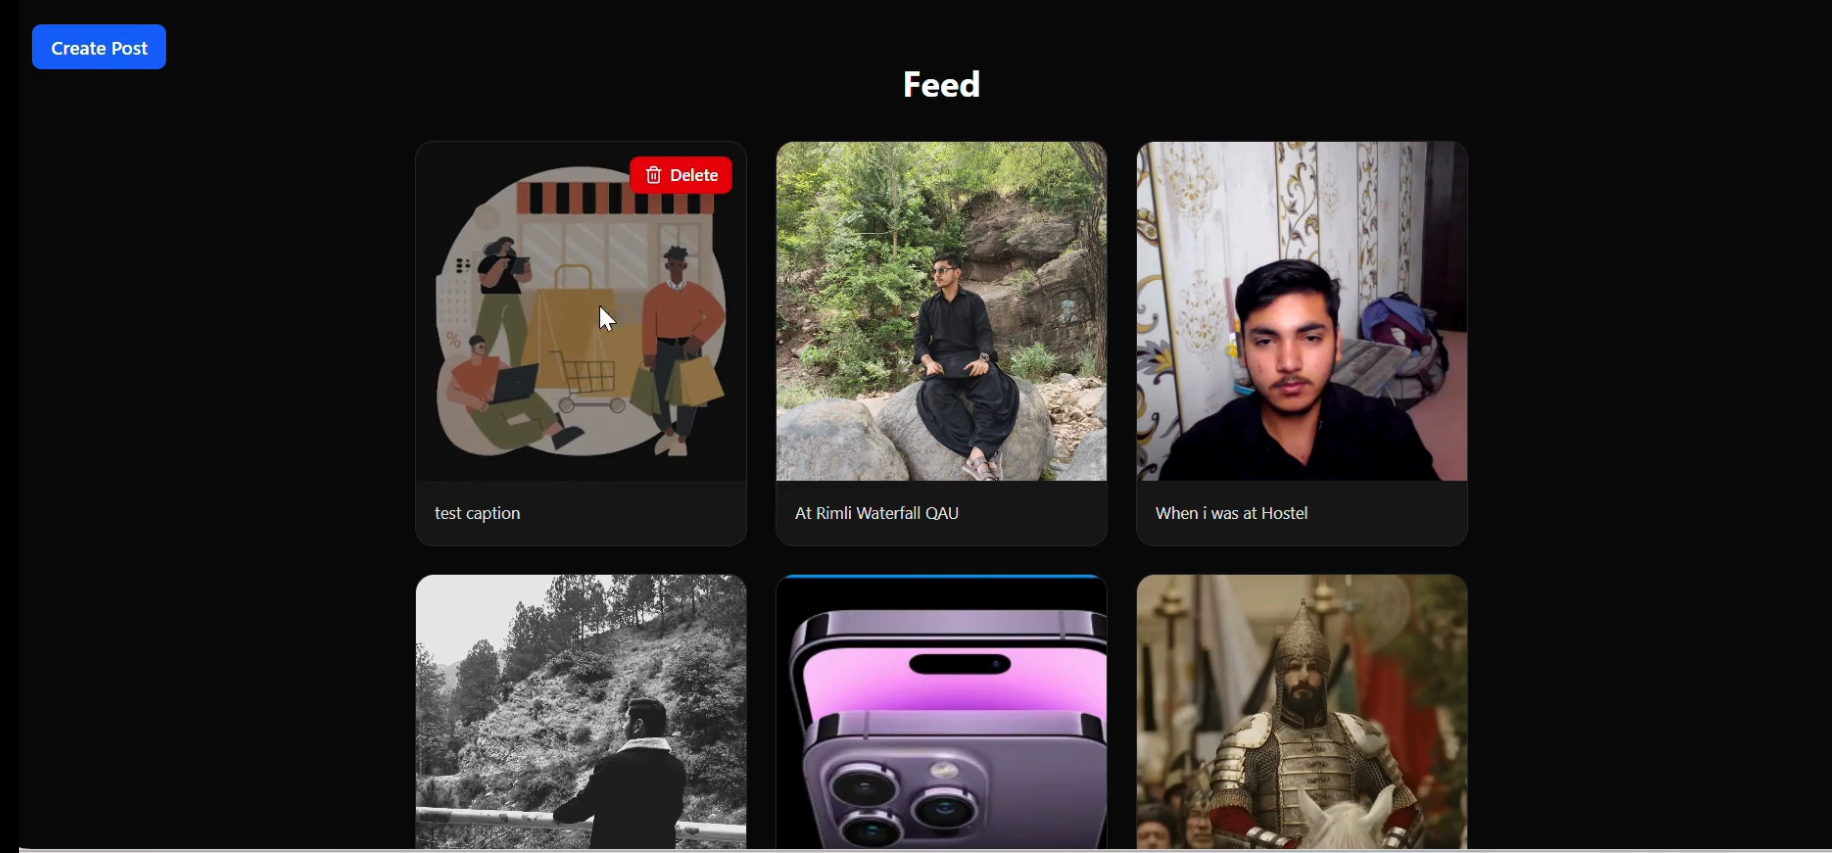
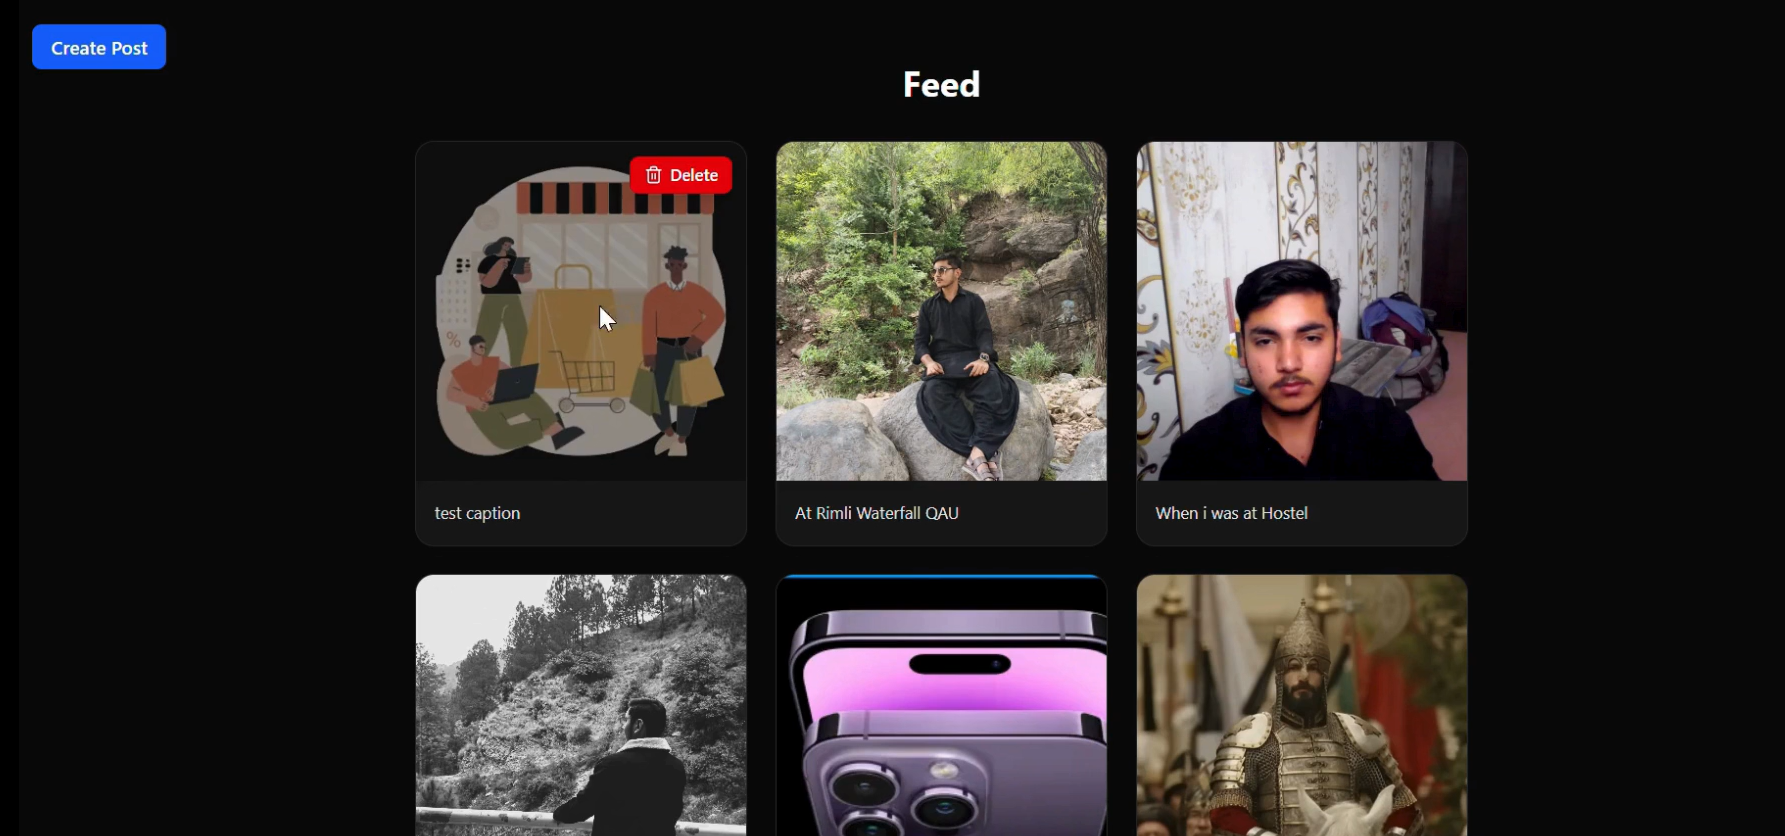
update UI & details

diff --git a/script.js b/script.js
@@ -7,70 +7,76 @@ const CERTS = [
     title: 'HTML Certificate',
     issuer: 'Great Learning',
     desc: 'Completed a comprehensive HTML course covering semantic markup, forms, tables, and modern HTML5 features.',
-    badge: 'HTML'
+    badges: ['HTML', 'HTML5', 'Web Development']
   },
   {
     img: 'Images/CSS certificate by great learning.jpg',
     title: 'CSS Certificate',
     issuer: 'Great Learning',
     desc: 'Mastered CSS styling including flexbox, grid, animations, responsive design, and modern layout techniques.',
-    badge: 'CSS'
+    badges: ['CSS', 'CSS3', 'Flexbox', 'Grid']
   },
   {
     img: 'Images/Responsvie-web-design.png',
     title: 'Responsive Web Design',
     issuer: 'freeCodeCamp',
     desc: 'Earned certification in responsive web design — building mobile-first, accessible, and adaptive web pages.',
-    badge: 'Responsive'
+    badges: ['HTML', 'CSS', 'JavaScript', 'Responsive Design']
   },
   {
     img: 'Images/certificate.png',
-    title: 'CSS Certificate',
+    title: 'Full Stack E-commerce Project',
     issuer: 'Great Learning',
-    desc: 'Advanced CSS certification covering transitions, transforms, and building visually stunning interfaces.',
-    badge: 'CSS'
+    desc: 'Built a complete full-stack e-commerce platform using the MERN stack with authentication and payment integration.',
+    badges: ['MERN Stack', 'React', 'Node.js', 'MongoDB', 'Express']
+  },
+  {
+    img: 'Images/CIT.jpeg',
+    title: 'Certificate in Information Technology',
+    issuer: 'Adnan computer classes Shahdadkot',
+    desc: 'Completed a 6-month CIT course covering computer fundamentals, programming, and IT concepts. basics of computer hardware and software.',
+    badges: ['Basic IT', 'Photoshop', 'MS Office', 'Excel', 'PowerPoint']
   }
 ];
 
 /* Projects */
 const PROJECTS = [
   {
-    img: 'Images/html.jpg',
+    img: 'Images/Projects/ecommerce.png',
     emoji: '🛍',
     title: 'E-Commerce Platform',
     desc: 'Full-stack MERN e-commerce platform with product catalog, cart, checkout, and admin dashboard.',
     tags: ['React', 'Node.js', 'MongoDB', 'Express']
   },
   {
-    img: 'Images/CSS certificate by great learning.jpg',
+    img: 'Images/Projects/Authentication.png',
     emoji: '💬',
     title: 'Real-time Chat App',
     desc: 'Real-time messaging application using Socket.io with instant message delivery and user presence.',
     tags: ['React', 'Socket.io', 'Express', 'MongoDB']
   },
   {
-    img: 'Images/Responsvie-web-design.png',
+    img: 'Images/Projects/gallery.png',
     emoji: '📝',
     title: 'Notes App',
     desc: 'Full-stack notes application with CRUD operations, search, and user authentication.',
     tags: ['React', 'Node.js', 'MongoDB', 'Express']
   },
   {
-    img: 'Images/certificate.png',
-    emoji: '🖼',
+    img: 'Images/Projects/gallery.png',
     title: 'Gallery App',
     desc: 'Image gallery application with upload, categorization, and responsive grid layout.',
     tags: ['React', 'Node.js', 'MongoDB', 'Express']
   },
   {
-    img: 'Images/html.jpg',
-    emoji: '🔐',
+    img: 'Images/Projects/Authentication.png',
+
     title: 'Authentication System',
     desc: 'Secure authentication system with Gmail verification, JWT tokens, and protected routes.',
     tags: ['React', 'Node.js', 'MongoDB', 'JWT']
   },
   {
-    img: 'Images/CSS certificate by great learning.jpg',
+    img: 'Images/Projects/ecommerce.png',
     emoji: '🛒',
     title: 'E-Commerce Frontend',
     desc: 'Modern e-commerce frontend built with React — product listings, filters, and shopping cart UI.',
@@ -132,7 +138,9 @@ CERTS.forEach(c => {
       <div class="cert-body">
         <h3>${c.title}</h3>
         <p>${c.desc}</p>
-        <span class="cert-badge">${c.badge}</span>
+        <div class="cert-badges">
+          ${c.badges.map(b => `<span class="cert-badge">${b}</span>`).join('')}
+        </div>
       </div>
     </div>`;
 });
@@ -147,7 +155,6 @@ PROJECTS.forEach(p => {
         <img src="${p.img}" alt="${p.title}" loading="lazy" />
       </div>
       <div class="proj-body">
-        <span class="proj-emoji">${p.emoji}</span>
         <h3>${p.title}</h3>
         <p>${p.desc}</p>
         <div class="tags">${p.tags.map(t => `<span class="tag">${t}</span>`).join('')}</div>
@@ -314,45 +321,42 @@ function closeMob() {
   document.getElementById('mobMenu').classList.remove('open');
 }
 
-/* ====================== CONTACT FORM ====================== */
-document.getElementById('contactForm').addEventListener('submit', async function(e) {
+/* ====================== CONTACT FORM (mailto - no backend needed) ====================== */
+document.getElementById('contactForm').addEventListener('submit', function(e) {
   e.preventDefault();
   const btn = document.getElementById('submitBtn');
   const msg = document.getElementById('formMsg');
-  const data = {
-    name:    document.getElementById('name').value,
-    email:   document.getElementById('email').value,
-    phone:   document.getElementById('phone').value,
-    subject: document.getElementById('subject').value,
-    message: document.getElementById('message').value,
-  };
 
-  btn.textContent = 'Sending…'; btn.disabled = true;
+  const name    = document.getElementById('name').value;
+  const email   = document.getElementById('email').value;
+  const phone   = document.getElementById('phone').value;
+  const subject = document.getElementById('subject').value;
+  const message = document.getElementById('message').value;
+
+  btn.textContent = 'Opening Email…'; btn.disabled = true;
   msg.style.display = 'none';
 
-  try {
-    const res = await fetch('http://localhost:5000/api/contact', {
-      method: 'POST',
-      headers: { 'Content-Type': 'application/json' },
-      body: JSON.stringify(data)
-    });
-    const json = await res.json();
-    if (res.ok) {
-      msg.className = 'form-msg ok';
-      msg.textContent = '✓ Message sent! I\'ll get back to you soon.';
-      this.reset();
-    } else {
-      throw new Error(json.error || 'Server error');
-    }
-  } catch (err) {
-    msg.className = 'form-msg ok';
-    msg.textContent = '✓ (Preview) Message received! Connect your backend to enable real email delivery.';
-    this.reset();
-  } finally {
-    msg.style.display = 'block';
-    btn.textContent = 'Send Message →'; btn.disabled = false;
-    setTimeout(() => { msg.style.display = 'none'; }, 6000);
-  }
+  // Build the mailto link with all form data
+  const recipient = 'soomromuhammadabbas671@gmail.com';
+  const mailSubject = encodeURIComponent(`${subject} — from ${name}`);
+  const mailBody = encodeURIComponent(
+    `Name: ${name}\n` +
+    `Email: ${email}\n` +
+    `Phone/WhatsApp: ${phone}\n` +
+    `\nMessage:\n${message}`
+  );
+
+  const mailtoLink = `mailto:${recipient}?subject=${mailSubject}&body=${mailBody}`;
+
+  // Open the visitor's email client with the pre-filled message
+  window.location.href = mailtoLink;
+
+  msg.className = 'form-msg ok';
+  msg.textContent = '✓ Your email app has opened! Just press Send in your email app.';
+  msg.style.display = 'block';
+
+  btn.textContent = 'Send Message →'; btn.disabled = false;
+  setTimeout(() => { msg.style.display = 'none'; }, 6000);
 });
 
 /* ====================== ACTIVE NAV HIGHLIGHT ====================== */

diff --git a/index.html b/index.html
@@ -155,6 +155,16 @@
       MERN Stack Developer crafting powerful web applications with
       React, Node.js, MongoDB & Express — plus C++, Python, and Tailwind CSS.
     </p>
+    <div class="hero-badges">
+      <span class="hero-badge">MERN Stack</span>
+      <span class="hero-badge">React.js</span>
+      <span class="hero-badge">Node.js</span>
+      <span class="hero-badge">MongoDB</span>
+      <span class="hero-badge">Express.js</span>
+      <span class="hero-badge">Tailwind CSS</span>
+      <span class="hero-badge">C++</span>
+      <span class="hero-badge">Python</span>
+    </div>
     <div class="hero-btns">
       <a href="#projects" class="btn btn-primary"><span>View My Work</span></a>
       <a href="#contact"  class="btn btn-outline"><span>Get In Touch</span></a>
@@ -175,7 +185,7 @@
     <div class="about-grid">
       <div class="about-text">
         <p>
-          I'm Muhammad Abbas, a passionate MERN stack developer based in Islamabad.
+          I'm Muhammad Abbas, a passionate MERN stack developer.
           I specialize in building full-stack web applications using MongoDB,
           Express, React, and Node.js — turning ideas into elegant, functional
           digital products.
@@ -187,13 +197,15 @@
           deliver clean, modern solutions.
         </p>
         <p>
-          I'm constantly learning and improving — completing certifications in
-          HTML, CSS, and Responsive Web Design to sharpen my frontend skills
-          and deliver pixel-perfect experiences.
+          I'm constantly learning and improving — now i am learning AI Engineering
+          and combine AI in web development.
+        </p>
+        <p>
+          Currently looking for Internship or Part time job.
         </p>
       </div>
       <div class="stats">
-        <div class="stat-card"><h3>6+</h3><p>Projects Built</p></div>
+        <div class="stat-card"><h3>9+</h3><p>Projects Built</p></div>
         <div class="stat-card"><h3>4</h3><p>Certifications</p></div>
         <div class="stat-card"><h3>1</h3><p>Month Internship</p></div>
         <div class="stat-card"><h3>100%</h3><p>Dedication</p></div>
@@ -216,7 +228,7 @@
           <h3>BS Computer Science</h3>
           <p>Quaid-e-Azam University, Islamabad</p>
           <div class="tags">
-            <span class="tag">Semester 5</span>
+            <span class="tag"> Current Semester 5</span>
             <span class="tag">CGPA 2.8</span>
           </div>
         </div>
@@ -248,7 +260,7 @@
         <div class="exp-content">
           <span class="exp-date">6 Months</span>
           <h3>CIT Course</h3>
-          <p>Computer Information Technology</p>
+          <p>Certificate in Information Technology</p>
           <div class="tags">
             <span class="tag">Certificate</span>
           </div>
@@ -350,7 +362,7 @@
           <div class="info-icon">⏰</div>
           <div>
             <h4>Availability</h4>
-            <p>Mon – Fri, 9 AM – 6 PM PKT</p>
+            <p>24/7 available</p>
           </div>
         </div>
         <div class="socials">

diff --git a/style.css b/style.css
@@ -251,6 +251,37 @@ nav {
   animation: fadeUp .9s .35s both;
 }
 
+.hero-badges {
+  display: flex;
+  flex-wrap: wrap;
+  justify-content: center;
+  gap: .6rem;
+  margin: 0 auto 1.8rem;
+  max-width: 640px;
+  animation: fadeUp .9s .45s both;
+}
+
+.hero-badge {
+  display: inline-flex;
+  align-items: center;
+  padding: .35rem 1rem;
+  border-radius: 999px;
+  font-size: .78rem;
+  font-weight: 600;
+  letter-spacing: .4px;
+  background: var(--red-dim);
+  color: var(--red);
+  border: 1px solid rgba(239, 68, 68, .28);
+  transition: all .3s;
+}
+
+.hero-badge:hover {
+  background: var(--red);
+  color: #fff;
+  transform: translateY(-3px);
+  box-shadow: 0 6px 20px var(--red-glow);
+}
+
 .hero-btns {
   display: flex;
   gap: 1rem;
@@ -681,9 +712,15 @@ h2.section-title {
   line-height: 1.6;
 }
 
+.cert-badges {
+  display: flex;
+  flex-wrap: wrap;
+  gap: .4rem;
+  margin-top: .8rem;
+}
+
 .cert-badge {
   display: inline-block;
-  margin-top: .8rem;
   padding: .25rem .8rem;
   border-radius: 999px;
   font-size: .72rem;
@@ -693,6 +730,14 @@ h2.section-title {
   background: var(--red-dim);
   color: var(--red);
   border: 1px solid rgba(239, 68, 68, .25);
+  transition: all .25s;
+}
+
+.cert-badge:hover {
+  background: var(--red);
+  color: #fff;
+  transform: translateY(-2px);
+  box-shadow: 0 4px 12px var(--red-glow);
 }
 
 /* ==================== PROJECTS ==================== */
@@ -758,12 +803,6 @@ h2.section-title {
   padding: 1.6rem 2rem 2rem;
   position: relative;
   z-index: 2;
-}
-
-.proj-emoji {
-  font-size: 2.4rem;
-  margin-bottom: .8rem;
-  display: block;
 }
 
 .proj-card h3 {
